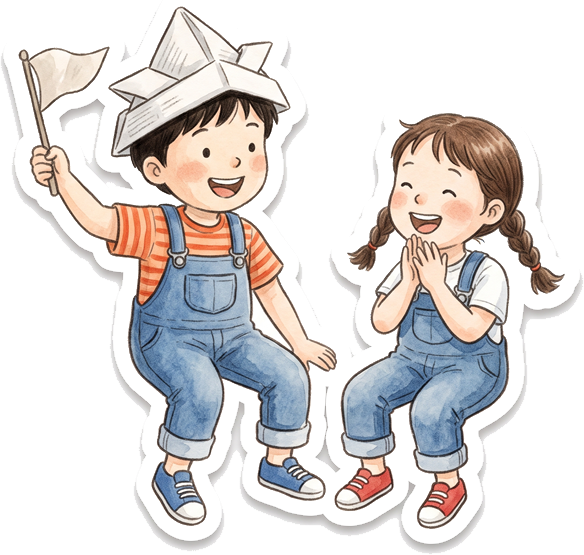
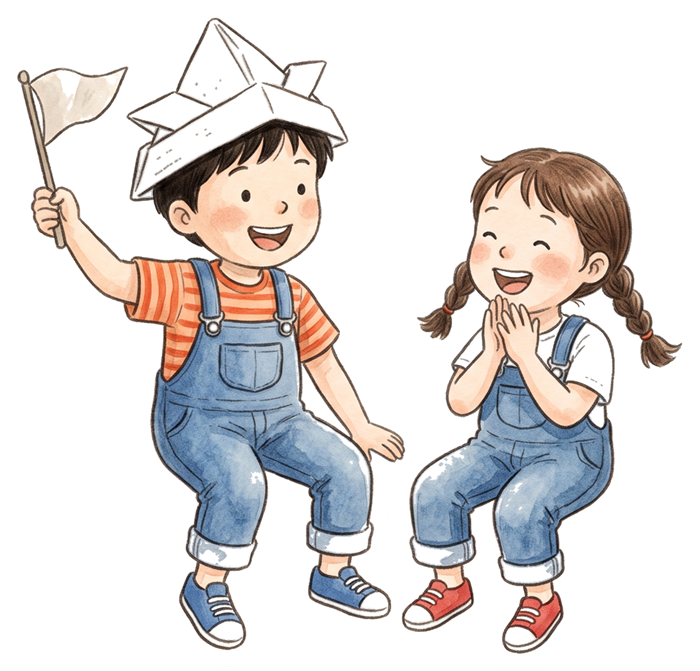
Member login and sign-up, Instagram link, cleaner kids sticker
- Login / sign-up modal on every page (demo: accounts kept in this browser)
- Header shows the member's name and logout; booking forms auto-fill
- Instagram button links to @jinju7080
- Kids sticker recut from the original with a clean white die-cut edge

diff --git a/js/auth.js b/js/auth.js
@@ -1,0 +1,205 @@
+// 로그인 · 회원가입
+// Demo only: accounts live in this browser's localStorage. To go live, replace the
+// `store` functions below with calls to a real auth service (Firebase, Supabase, …).
+
+const store = {
+  users() {
+    try { return JSON.parse(localStorage.getItem('meomul.users')) || {}; } catch { return {}; }
+  },
+  saveUsers(users) {
+    try { localStorage.setItem('meomul.users', JSON.stringify(users)); } catch { /* storage blocked */ }
+  },
+  session() {
+    try { return localStorage.getItem('meomul.session'); } catch { return null; }
+  },
+  setSession(email) {
+    try {
+      if (email) localStorage.setItem('meomul.session', email);
+      else localStorage.removeItem('meomul.session');
+    } catch { /* storage blocked */ }
+  },
+};
+
+async function hash(text) {
+  const data = new TextEncoder().encode(`meomul:${text}`);
+  const buf = await crypto.subtle.digest('SHA-256', data);
+  return [...new Uint8Array(buf)].map((b) => b.toString(16).padStart(2, '0')).join('');
+}
+
+const currentUser = () => {
+  const email = store.session();
+  return email ? store.users()[email] || null : null;
+};
+
+// ----- modal -----
+const authModal = document.createElement('dialog');
+authModal.className = 'booking-modal auth-modal';
+authModal.setAttribute('aria-labelledby', 'auth-title');
+authModal.innerHTML = `
+  <button type="button" class="modal-close" aria-label="닫기">×</button>
+  <h2 class="booking-title" id="auth-title">머물나무 회원</h2>
+  <div class="auth-tabs" role="tablist">
+    <button type="button" role="tab" data-tab="login">로그인</button>
+    <button type="button" role="tab" data-tab="signup">회원가입</button>
+  </div>
+
+  <form class="donate-form auth-form" data-form="login" novalidate>
+    <label><span class="lbl">이메일</span><input type="email" name="email" required autocomplete="email"></label>
+    <label><span class="lbl">비밀번호</span><input type="password" name="password" required autocomplete="current-password"></label>
+    <p class="form-error" role="alert" hidden></p>
+    <button type="submit" class="btn btn-red">로그인</button>
+    <p class="auth-switch">아직 회원이 아니신가요? <button type="button" data-tab="signup">회원가입</button></p>
+  </form>
+
+  <form class="donate-form auth-form" data-form="signup" novalidate hidden>
+    <div class="field-row">
+      <label><span class="lbl">이름 <span class="req">*</span></span><input type="text" name="name" required autocomplete="name"></label>
+      <label><span class="lbl">연락처</span><input type="tel" name="phone" placeholder="010-0000-0000" autocomplete="tel"></label>
+    </div>
+    <label><span class="lbl">이메일 (아이디) <span class="req">*</span></span><input type="email" name="email" required autocomplete="email"></label>
+    <div class="field-row">
+      <label><span class="lbl">비밀번호 <span class="req">*</span></span><input type="password" name="password" required minlength="8" autocomplete="new-password"></label>
+      <label><span class="lbl">비밀번호 확인 <span class="req">*</span></span><input type="password" name="password2" required autocomplete="new-password"></label>
+    </div>
+    <p class="auth-hint">비밀번호는 영문과 숫자를 섞어 8자 이상으로 만들어 주세요.</p>
+    <label class="choice agree"><input type="checkbox" name="terms" required> 이용약관과 개인정보 수집·이용에 동의해요. <span class="req">*</span></label>
+    <label class="choice agree"><input type="checkbox" name="news"> 새 책 · 프로그램 소식을 문자와 이메일로 받을게요. (선택)</label>
+    <p class="form-error" role="alert" hidden></p>
+    <button type="submit" class="btn btn-red">가입하기</button>
+    <p class="auth-switch">이미 회원이신가요? <button type="button" data-tab="login">로그인</button></p>
+  </form>
+
+  <div class="auth-done" hidden></div>`;
+document.body.appendChild(authModal);
+
+const forms = {
+  login: authModal.querySelector('[data-form="login"]'),
+  signup: authModal.querySelector('[data-form="signup"]'),
+};
+const doneBox = authModal.querySelector('.auth-done');
+
+function showTab(tab) {
+  Object.entries(forms).forEach(([key, form]) => {
+    form.hidden = key !== tab;
+    form.reset();
+    form.querySelector('.form-error').hidden = true;
+  });
+  doneBox.hidden = true;
+  authModal.querySelectorAll('.auth-tabs [data-tab]').forEach((b) => {
+    b.setAttribute('aria-selected', String(b.dataset.tab === tab));
+  });
+}
+
+function openAuth(tab = 'login') {
+  showTab(tab);
+  if (!authModal.open) authModal.showModal();
+  forms[tab].querySelector('input').focus();
+}
+
+authModal.addEventListener('click', (e) => {
+  const tabBtn = e.target.closest('[data-tab]');
+  if (tabBtn) showTab(tabBtn.dataset.tab);
+  if (e.target === authModal || e.target.closest('.modal-close')) authModal.close();
+});
+
+function fail(form, message) {
+  const box = form.querySelector('.form-error');
+  box.textContent = message;
+  box.hidden = false;
+}
+
+function finish(message) {
+  forms.login.hidden = true;
+  forms.signup.hidden = true;
+  doneBox.hidden = false;
+  doneBox.innerHTML = `<div class="donate-done">${message}
+    <button type="button" class="btn btn-green" onclick="this.closest('dialog').close()">확인</button></div>`;
+  renderHeader();
+  fillForms();
+}
+
+forms.signup.addEventListener('submit', async (e) => {
+  e.preventDefault();
+  const f = forms.signup;
+  const email = f.email.value.trim().toLowerCase();
+  const problems = [];
+  if (!f.name.value.trim()) problems.push('이름');
+  if (!f.email.checkValidity() || !email) problems.push('이메일');
+  if (!/^(?=.*[A-Za-z])(?=.*\d).{8,}$/.test(f.password.value)) problems.push('비밀번호 (영문+숫자 8자 이상)');
+  if (f.password.value !== f.password2.value) problems.push('비밀번호 확인이 달라요');
+  if (f.phone.value && !/^[0-9-]{9,13}$/.test(f.phone.value.trim())) problems.push('연락처');
+  if (!f.terms.checked) problems.push('약관 동의');
+  if (problems.length) return fail(f, `다음 항목을 확인해 주세요: ${problems.join(', ')}`);
+
+  const users = store.users();
+  if (users[email]) return fail(f, '이미 가입된 이메일이에요. 로그인해 주세요.');
+  users[email] = {
+    name: f.name.value.trim(),
+    email,
+    phone: f.phone.value.trim(),
+    news: f.news.checked,
+    password: await hash(f.password.value),
+    points: 0,
+    joined: new Date().toISOString().slice(0, 10),
+  };
+  store.saveUsers(users);
+  store.setSession(email);
+  finish(`<h3>환영해요, ${users[email].name} 님!</h3>
+    <p>머물나무 회원이 되셨어요. 책을 기부하면 나눔 포인트가 쌓이고,<br>프로그램 예약도 더 쉽게 할 수 있어요.</p>`);
+});
+
+forms.login.addEventListener('submit', async (e) => {
+  e.preventDefault();
+  const f = forms.login;
+  const email = f.email.value.trim().toLowerCase();
+  if (!email || !f.password.value) return fail(f, '이메일과 비밀번호를 입력해 주세요.');
+  const user = store.users()[email];
+  if (!user || user.password !== (await hash(f.password.value))) {
+    return fail(f, '이메일 또는 비밀번호가 맞지 않아요.');
+  }
+  store.setSession(email);
+  finish(`<h3>${user.name} 님, 다시 오셨네요</h3><p>나눔 포인트 <b>${(user.points || 0).toLocaleString('ko-KR')}P</b></p>`);
+});
+
+// ----- header: 로그인/회원가입 ↔ 이름/로그아웃 -----
+const actions = document.querySelector('.header-actions');
+const guestHTML = actions.innerHTML;
+
+function renderHeader() {
+  const user = currentUser();
+  if (!user) {
+    actions.innerHTML = guestHTML;
+    actions.querySelector('.link-login').addEventListener('click', (e) => { e.preventDefault(); openAuth('login'); });
+    actions.querySelector('.btn').addEventListener('click', (e) => { e.preventDefault(); openAuth('signup'); });
+    return;
+  }
+  actions.innerHTML = `
+    <span class="user-chip" title="나눔 포인트 ${(user.points || 0).toLocaleString('ko-KR')}P">
+      <span class="user-avatar" aria-hidden="true">${user.name.slice(0, 1)}</span>${user.name} 님
+    </span>
+    <button type="button" class="link-login logout">로그아웃</button>`;
+  actions.querySelector('.logout').addEventListener('click', () => {
+    store.setSession(null);
+    renderHeader();
+  });
+}
+
+// other "로그인 / 회원가입" links on the page (e.g. 나눔서가 포인트 안내)
+document.querySelectorAll('[data-auth]').forEach((link) => {
+  link.addEventListener('click', (e) => { e.preventDefault(); openAuth(link.dataset.auth); });
+});
+
+// logged-in members don't retype their name and phone in the booking forms
+function fillForms() {
+  const user = currentUser();
+  if (!user) return;
+  document.querySelectorAll('form:not(.auth-form)').forEach((form) => {
+    if (form.name instanceof HTMLInputElement && !form.name.value) form.name.value = user.name;
+    if (form.phone instanceof HTMLInputElement && !form.phone.value) form.phone.value = user.phone || '';
+    if (form.email instanceof HTMLInputElement && !form.email.value) form.email.value = user.email;
+  });
+}
+document.addEventListener('click', () => setTimeout(fillForms), true); // forms are rebuilt when modals open
+
+renderHeader();
+fillForms();

diff --git a/sharing.html b/sharing.html
@@ -250,7 +250,7 @@
 
           <div class="points-notice">
             <p><b>적립 예정 포인트 · <span class="points-preview">1,000</span>P</b></p>
-            <p>포인트는 회원 계정으로 적립돼요. <a href="#">회원가입</a> 또는 <a href="#">로그인</a> 후 신청하면 바로 연결돼요.</p>
+            <p>포인트는 회원 계정으로 적립돼요. <a href="#" data-auth="signup">회원가입</a> 또는 <a href="#" data-auth="login">로그인</a> 후 신청하면 바로 연결돼요.</p>
           </div>
 
           <label class="choice agree"><input type="checkbox" name="agree" required> 연락을 위한 개인정보(이름, 연락처, 이메일) 수집에 동의해요. <span class="req">*</span></label>
@@ -273,7 +273,7 @@
         <p class="footer-slogan">우리 동네 책방 · 그 나무 아래로, 다시 돌아옵니다</p>
         <ul class="footer-social">
           <li>
-            <a href="#" aria-label="인스타그램 @meomul_namu" title="인스타그램">
+            <a href="https://www.instagram.com/jinju7080/" target="_blank" rel="noopener" aria-label="인스타그램 @jinju7080 (새 창)" title="인스타그램 @jinju7080">
               <svg width="18" height="18" viewBox="0 0 24 24" fill="none" stroke="currentColor" stroke-width="2" aria-hidden="true"><rect x="3" y="3" width="18" height="18" rx="5"/><circle cx="12" cy="12" r="4"/><circle cx="17.5" cy="6.5" r="1" fill="currentColor"/></svg>
             </a>
           </li>
@@ -336,6 +336,7 @@
     </div>
   </footer>
   <script src="js/nav.js"></script>
+  <script src="js/auth.js"></script>
   <script src="js/sharing.js"></script>
 </body>
 </html>

diff --git a/css/style.css b/css/style.css
@@ -1097,6 +1097,21 @@ ul, ol { padding: 0; list-style: none; }
 }
 @media (prefers-reduced-motion: reduce) { .booking-modal[open] { animation: none; } }
 
+/* ===== 로그인 · 회원가입 ===== */
+.auth-modal { width: min(520px, calc(100% - 32px)); }
+.auth-form[hidden], .auth-done[hidden] { display: none; } /* .donate-form sets display: flex */
+.auth-tabs { display: grid; grid-template-columns: 1fr 1fr; margin: 18px 0 22px; border-bottom: 2px solid var(--line); }
+.auth-tabs button { padding: 12px 0; border: 0; background: none; font-size: 16px; color: var(--ink-soft); border-bottom: 3px solid transparent; margin-bottom: -2px; }
+.auth-tabs button[aria-selected="true"] { color: var(--ink); font-weight: 700; border-bottom-color: var(--btn-red); }
+.auth-form .btn { align-self: stretch; }
+.auth-hint { margin-top: -6px; color: var(--ink-soft); font-size: 13px; }
+.auth-switch { text-align: center; color: var(--ink-soft); font-size: 14px; }
+.auth-switch button { border: 0; background: none; padding: 0; color: var(--green); font-size: 14px; text-decoration: underline; }
+.user-chip { display: inline-flex; align-items: center; gap: 8px; font-size: 15px; color: var(--ink); -webkit-text-stroke: .45px currentColor; }
+.user-avatar { display: grid; place-items: center; width: 30px; height: 30px; border-radius: 50%; background: var(--btn-green); color: #fff; font-size: 14px; -webkit-text-stroke: 0; }
+.logout { border: 0; background: none; padding: 6px 4px; color: var(--ink-soft); }
+.logout:hover { color: var(--ink); }
+
 /* ===== Footer ===== */
 .site-footer {
   background: var(--brown-dark);

diff --git a/program.html b/program.html
@@ -182,7 +182,7 @@
         <p class="footer-slogan">우리 동네 책방 · 그 나무 아래로, 다시 돌아옵니다</p>
         <ul class="footer-social">
           <li>
-            <a href="#" aria-label="인스타그램 @meomul_namu" title="인스타그램">
+            <a href="https://www.instagram.com/jinju7080/" target="_blank" rel="noopener" aria-label="인스타그램 @jinju7080 (새 창)" title="인스타그램 @jinju7080">
               <svg width="18" height="18" viewBox="0 0 24 24" fill="none" stroke="currentColor" stroke-width="2" aria-hidden="true"><rect x="3" y="3" width="18" height="18" rx="5"/><circle cx="12" cy="12" r="4"/><circle cx="17.5" cy="6.5" r="1" fill="currentColor"/></svg>
             </a>
           </li>
@@ -245,6 +245,7 @@
     </div>
   </footer>
   <script src="js/nav.js"></script>
+  <script src="js/auth.js"></script>
   <script src="js/program.js"></script>
 </body>
 </html>

diff --git a/index.html b/index.html
@@ -415,7 +415,7 @@
         <p class="footer-slogan">우리 동네 책방 · 그 나무 아래로, 다시 돌아옵니다</p>
         <ul class="footer-social">
           <li>
-            <a href="#" aria-label="인스타그램 @meomul_namu" title="인스타그램">
+            <a href="https://www.instagram.com/jinju7080/" target="_blank" rel="noopener" aria-label="인스타그램 @jinju7080 (새 창)" title="인스타그램 @jinju7080">
               <svg width="18" height="18" viewBox="0 0 24 24" fill="none" stroke="currentColor" stroke-width="2" aria-hidden="true"><rect x="3" y="3" width="18" height="18" rx="5"/><circle cx="12" cy="12" r="4"/><circle cx="17.5" cy="6.5" r="1" fill="currentColor"/></svg>
             </a>
           </li>
@@ -479,6 +479,7 @@
   </footer>
 
   <script src="js/nav.js"></script>
+  <script src="js/auth.js"></script>
   <script src="js/main.js"></script>
 </body>
 </html>
